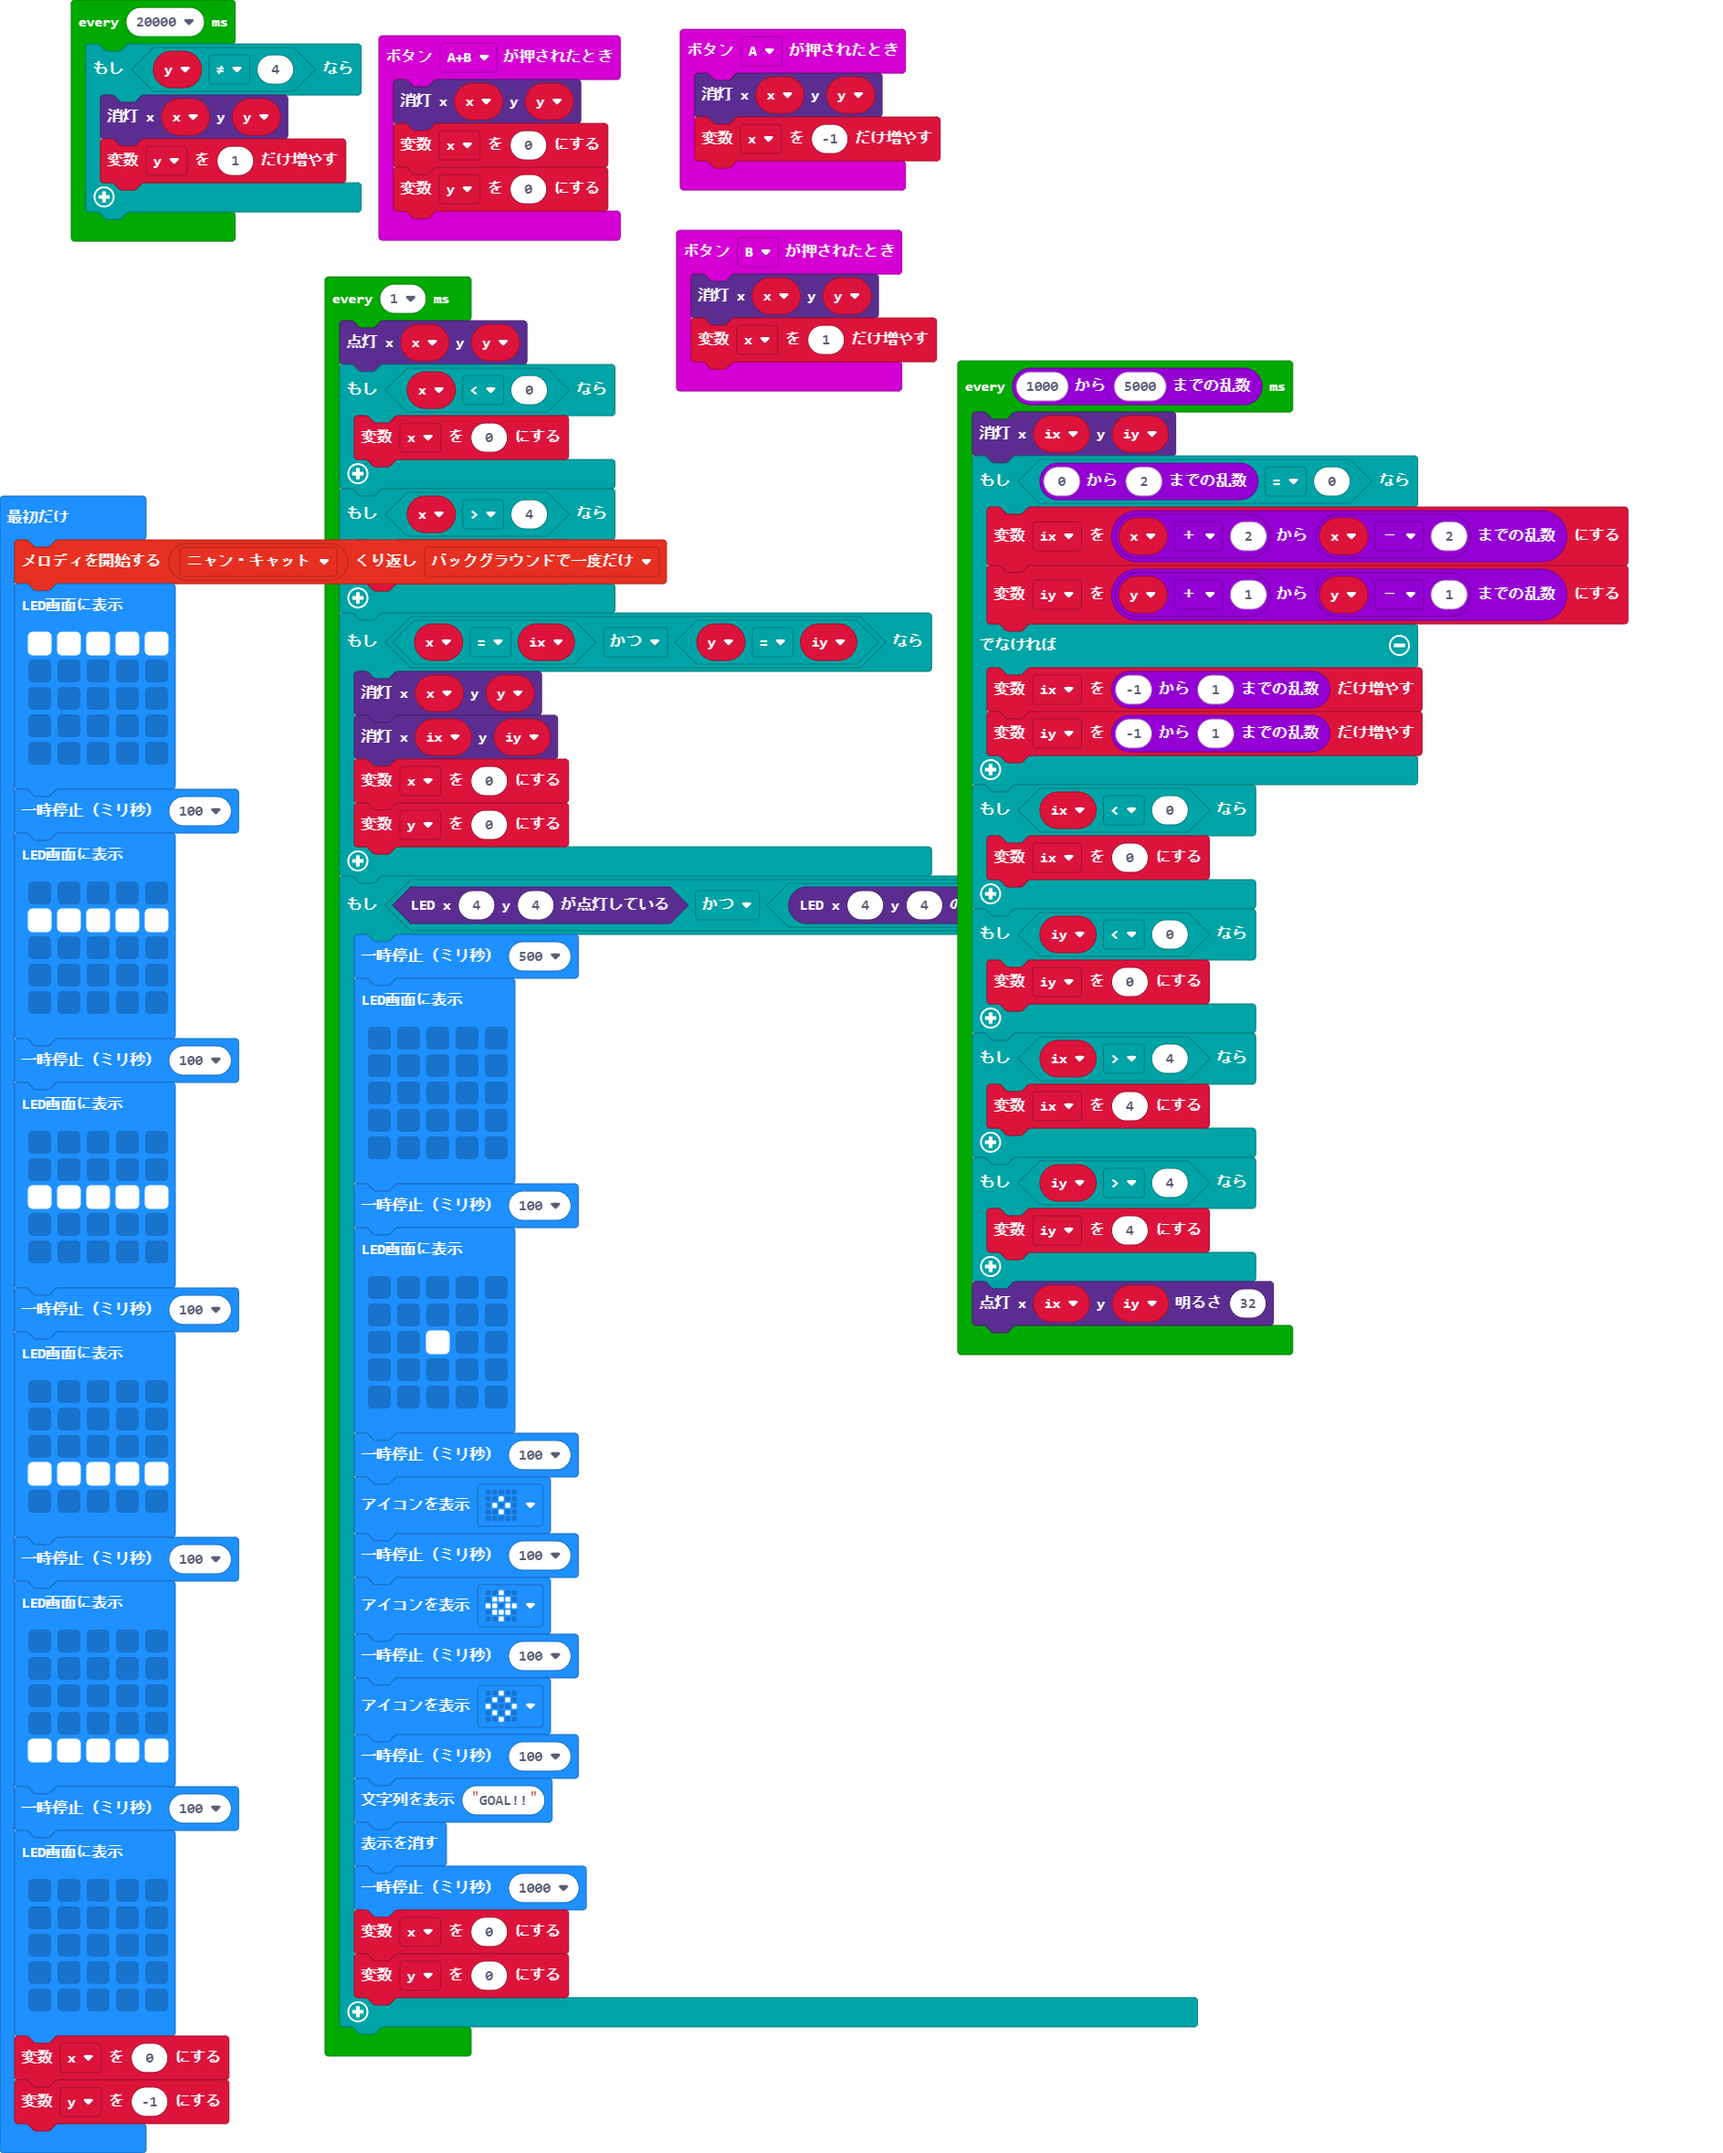
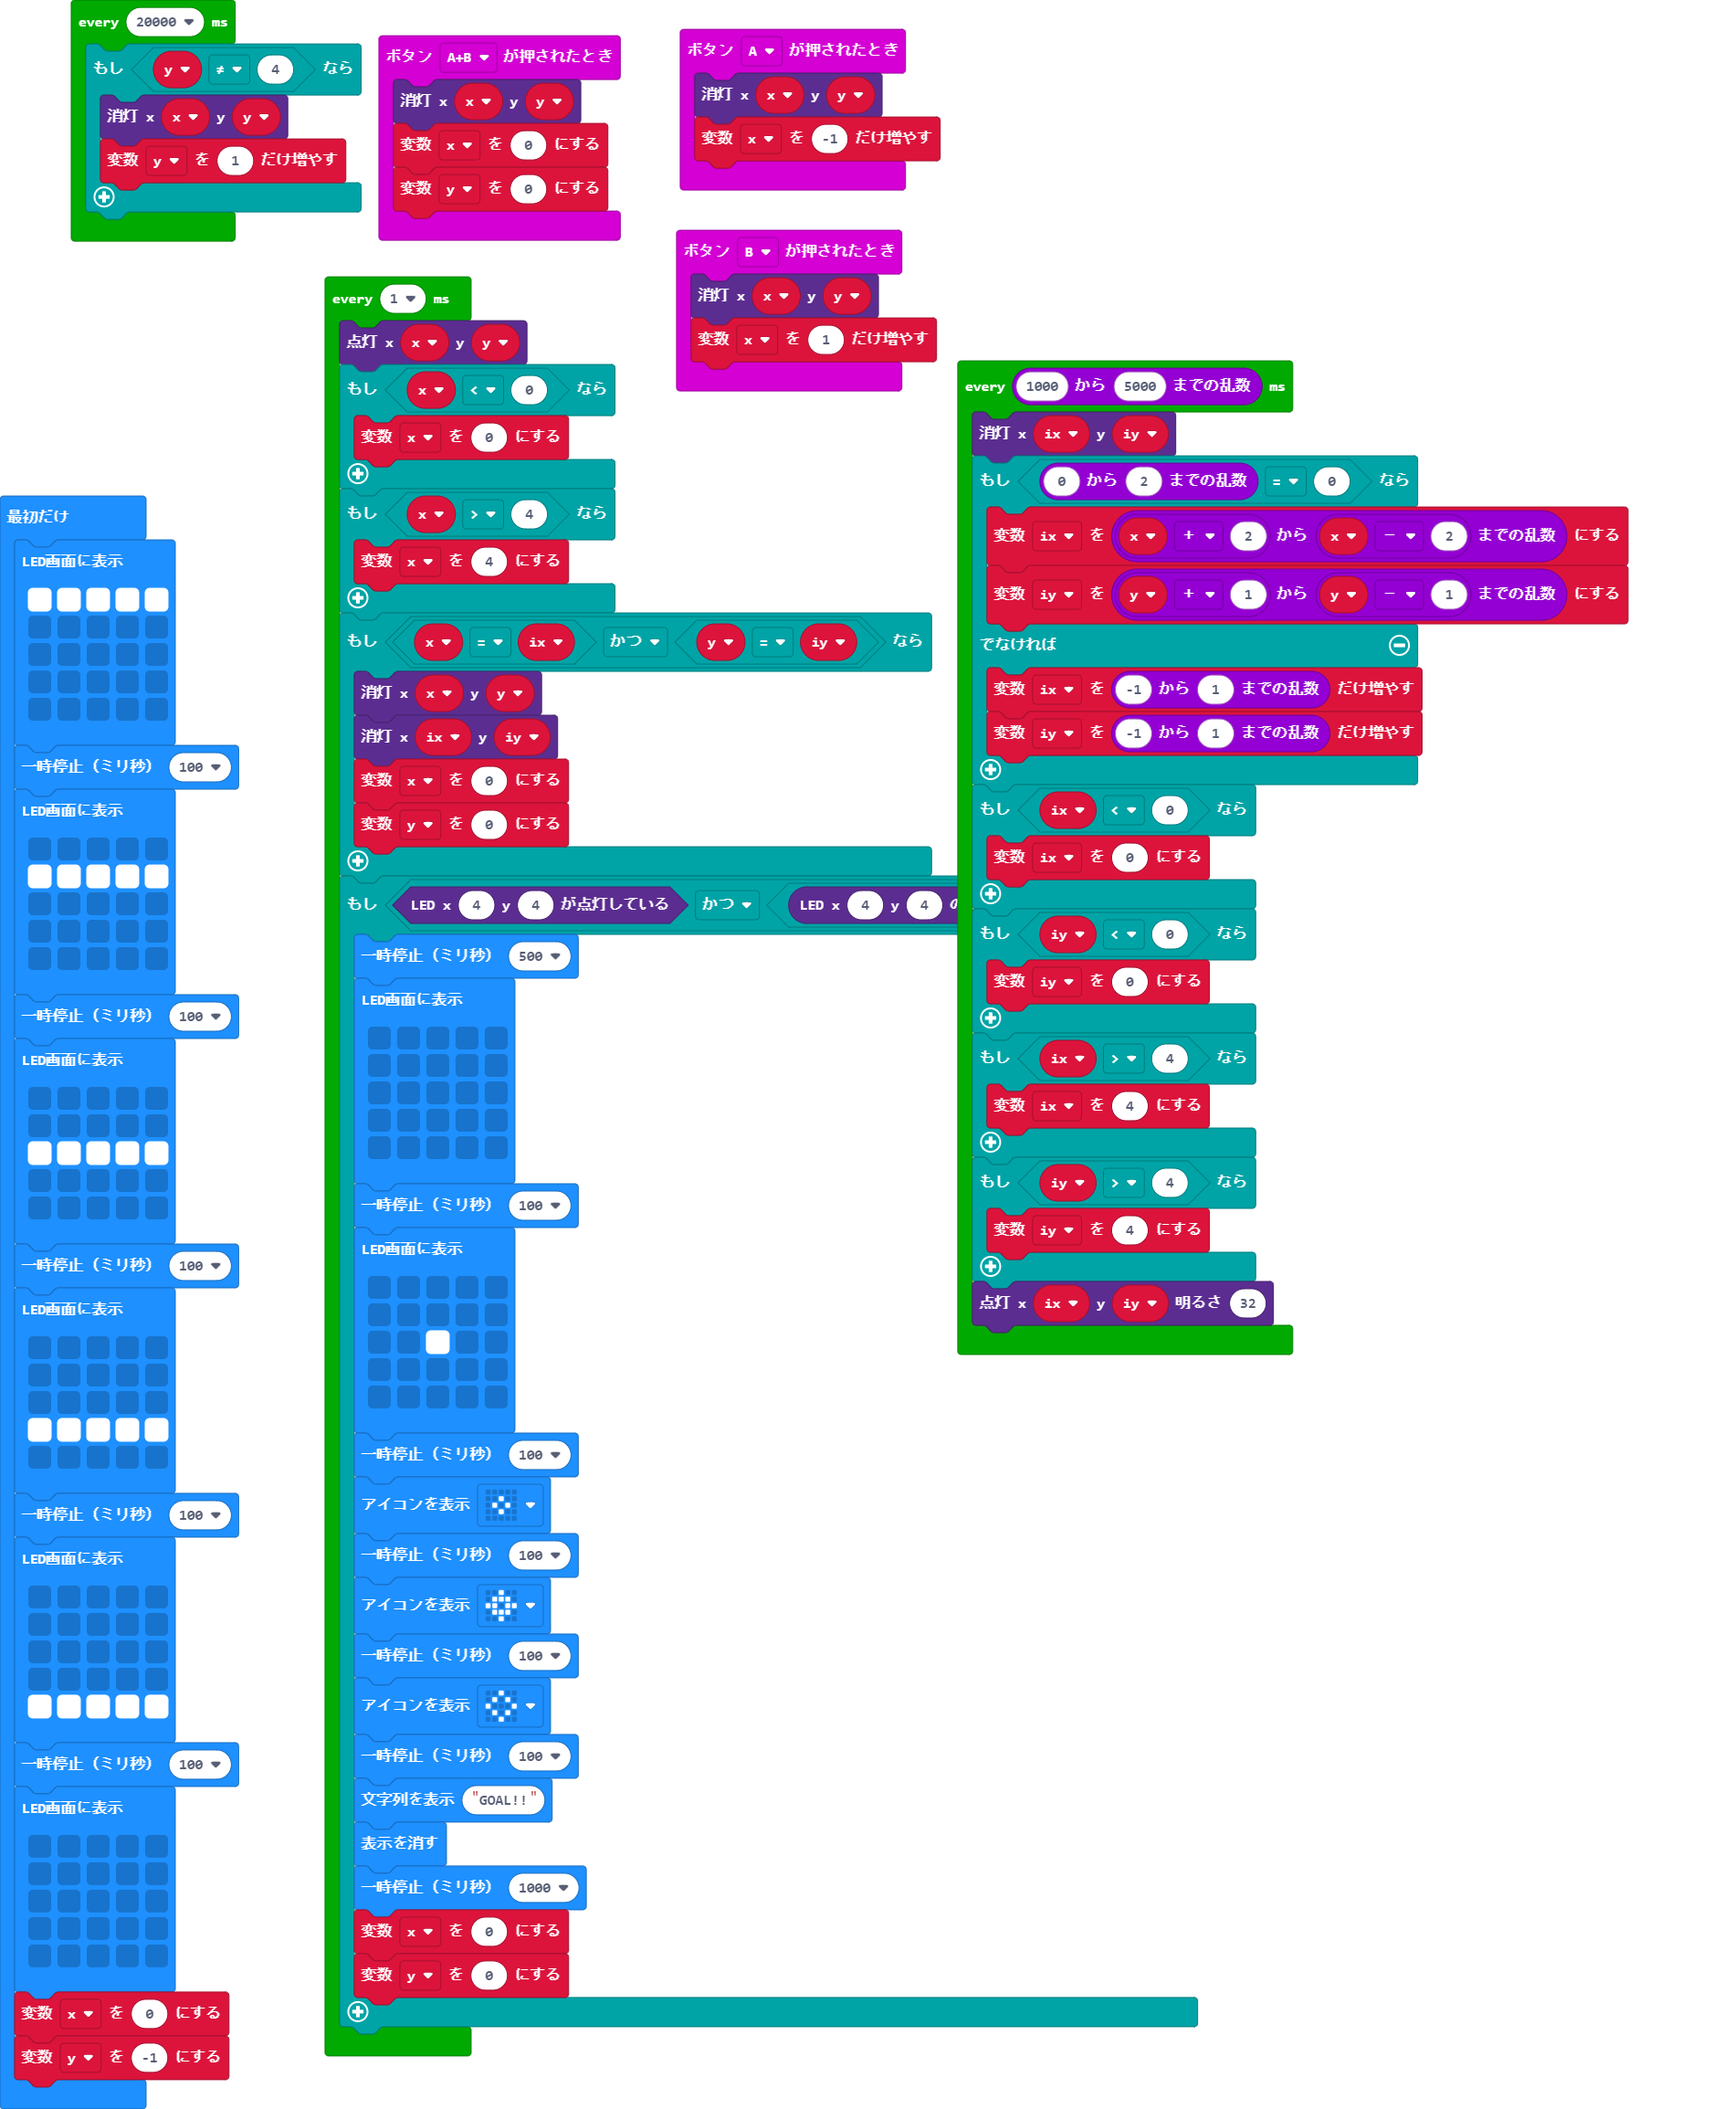
更新 main.blocks, main.ts

Changed region(s): [[0.0, 0.0, 0.9528, 0.9978]]

diff --git a/main.ts b/main.ts
@@ -15,7 +15,6 @@ let iy = 0
 let ix = 0
 let y = 0
 let x = 0
-music.startMelody(music.builtInMelody(Melodies.Nyan), MelodyOptions.OnceInBackground)
 basic.showLeds(`
     # # # # #
     . . . . .
